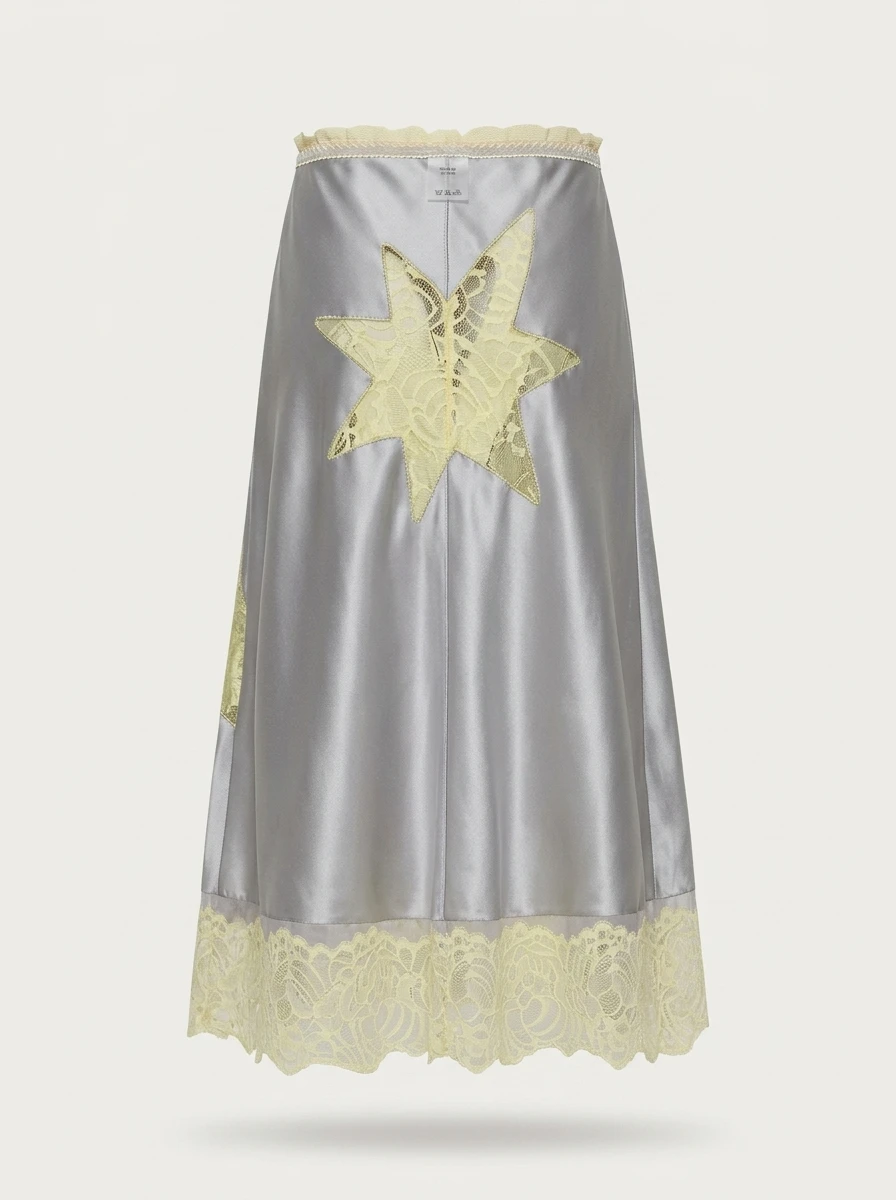
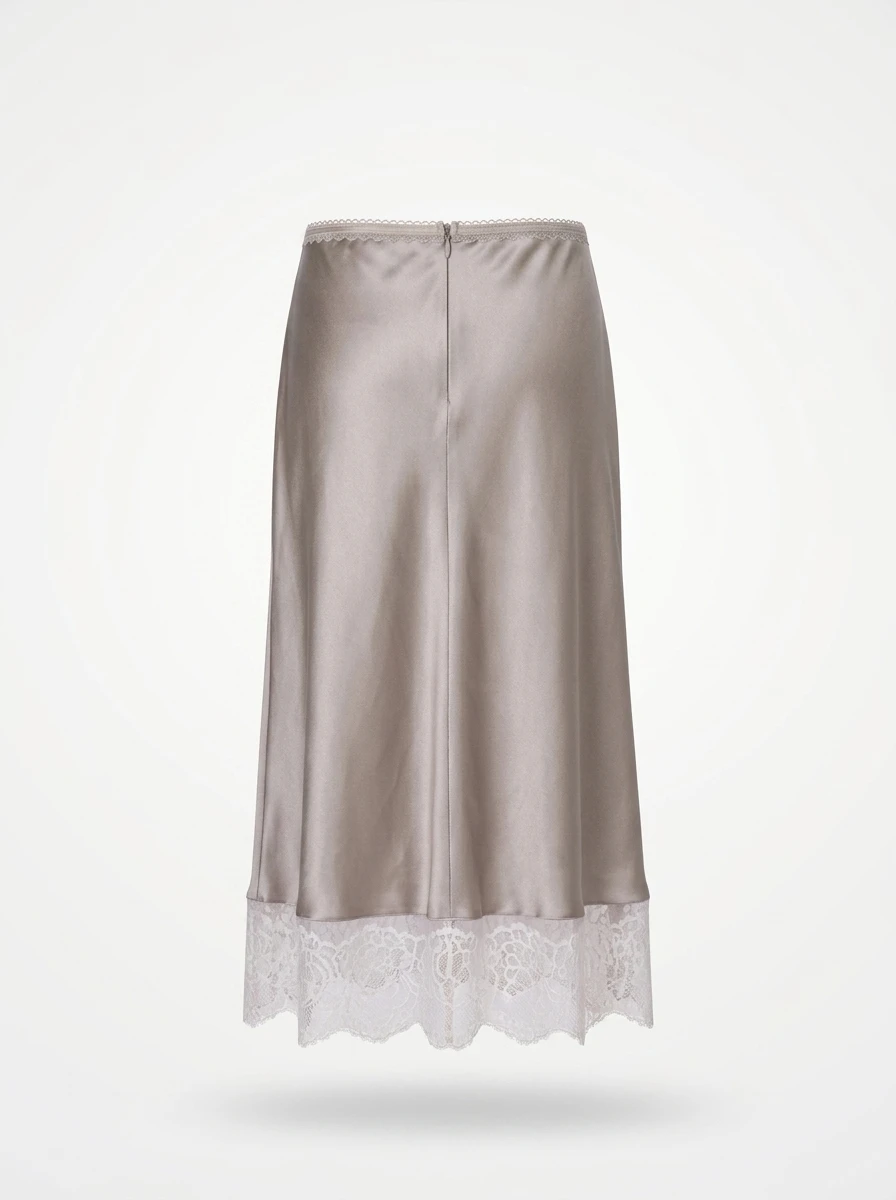
Holster Velvet Belt: бархатная версия ремня по скетчу Али — карточка + 2 кадра (+ параллельные правки: skirt-lace main/кадры, bag-frill-yellow)

Changed region(s): [[0.1875, 0.0925, 0.8125, 0.9867]]

diff --git a/data/items.js b/data/items.js
@@ -53,9 +53,9 @@ window.NNV_DATA = {
       image: "img/p08.webp", images: ["img/hoodie-horns/f2.webp", "img/hoodie-horns/f3.webp", "img/hoodie-horns/f4.webp", "img/hoodie-horns/f5.webp", "img/hoodie-horns/f6.webp", "img/hoodie-horns/process.webp"] },
     { id: "skirt-lace", title: "Satin Lace Skirt", category: "clothes",
       price: 220, colorGroup: "silver", sku: "NNV0109A",
-      lead: "Steel and lemon lace.",
-      desc: "Midi skirt in steel satin with a lemon lace appliqué shaped like a jagged crown. Lace border along the hem, concealed zip at the waist. The appliqué is sewn on by hand.",
-      image: "img/p09.webp", images: ["img/skirt-lace/f2.webp", "img/skirt-lace/f3.webp", "img/skirt-lace/f4.webp", "img/skirt-lace/f5.webp", "img/skirt-lace/f6.webp"] },
+      lead: "A beaded bolt on steel satin.",
+      desc: "Midi slip skirt in steel satin. The jagged crown appliqué is embroidered in pearl-white beads and edged with navy piping, sewn on by hand. White Chantilly lace along the hem, narrow lace trim at the waist, concealed zip.",
+      image: "img/skirt-lace/main.webp", images: ["img/skirt-lace/f2.webp", "img/skirt-lace/f3.webp", "img/skirt-lace/f4.webp", "img/skirt-lace/f5.webp", "img/skirt-lace/f6.webp"] },
     { id: "tee-riders", title: "Riders Oversized T-Shirt", category: "clothes",
       price: 120, colorGroup: "brown", sku: "NNV0110A",
       lead: "Two riders through a zigzag.",
@@ -111,6 +111,11 @@ window.NNV_DATA = {
       lead: "Strict shape, frills along the edge.",
       desc: "Structured trapeze bag in powder patent leather. Flap with sculpted frills, cast padlock, two handles. Fully monochrome hardware moulded in the body colour.",
       image: "img/p17.webp", images: ["img/bag-frill/f2.webp", "img/bag-frill/f3.webp", "img/bag-frill/f4.webp", "img/bag-frill/f5.webp", "img/bag-frill/f6.webp"] },
+    { id: "bag-frill-yellow", title: "Frill Patent Bag Yellow", category: "bags",
+      price: 290, colorGroup: "yellow", sku: "NNV0205A",
+      lead: "The same strict shape, dipped in mustard.",
+      desc: "Structured trapeze bag in mustard-yellow patent leather, straight from the original sketch. Flap with sculpted frills, cast padlock, two handles. Fully monochrome hardware moulded in the body colour; dark lining with an inner zip divider.",
+      image: "img/bag-frill-yellow/main.webp", images: ["img/bag-frill-yellow/f1.webp", "img/bag-frill-yellow/f3.webp", "img/bag-frill-yellow/f4.webp", "img/bag-frill-yellow/f5.webp", "img/bag-frill-yellow/f6.webp"] },
     { id: "bag-crown", title: "Crown Engraved Bag", category: "bags",
       price: 320, colorGroup: "green", sku: "NNV0204A",
       lead: "A crown scratched in gold.",
@@ -135,6 +140,11 @@ window.NNV_DATA = {
       price: 130, colorGroup: "pink", sku: "NNV0305A",
       lead: "Relics carved in dusty pink.",
       desc: "Statement drop earrings cast in one piece: an oval cameo held by rib-like wings and a spiked crest, then a shield-cut faceted crystal ringed with crescent horns and thorns. Monochrome dusty-rose lacquer, glossy porcelain finish; the pair is mirrored. A spare crescent bead comes in the box — wear it on the tongue.",
-      image: "img/p22.webp", images: ["img/earrings-cameo/f2.webp", "img/earrings-cameo/f3.webp"] }
+      image: "img/p22.webp", images: ["img/earrings-cameo/f2.webp", "img/earrings-cameo/f3.webp"] },
+    { id: "belt-holster", title: "Holster Velvet Belt", category: "accessories",
+      price: 160, colorGroup: "pink", sku: "NNV0306A",
+      lead: "A western in dusty-rose velvet.",
+      desc: "Double-strap belt fully flocked in pale dusty-rose cotton velvet — every element moulded in the same colour: the pistol-shaped buckle plate with an oval cabochon, the woven bramble frame with NNV letters, the ornate sun brooch, tooth and claw charms and a tiny turtle stud. Tone-on-tone pressed-velvet zigzag inlays run along the straps; one end curls into a horn, the other feathers out like a wing.",
+      image: "img/p25.webp", images: ["img/belt-holster/f2.webp", "img/belt-holster/f3.webp"] }
   ]
 };

diff --git a/assets/app.js b/assets/app.js
@@ -164,7 +164,7 @@
   function renderHome() {
     var newRow = document.querySelector("[data-new]");
     if (!newRow) return;
-    renderInto(newRow, ["longsleeve-smile", "dress-feather", "sweater-rider", "bag-nanava", "hoodie-horns", "bag-frill"].map(function (id) { return byId[id]; }));
+    renderInto(newRow, ["belt-holster", "longsleeve-smile", "dress-feather", "sweater-rider", "bag-nanava", "hoodie-horns"].map(function (id) { return byId[id]; }));
   }
 
   /* ---------- карточка товара ---------- */
